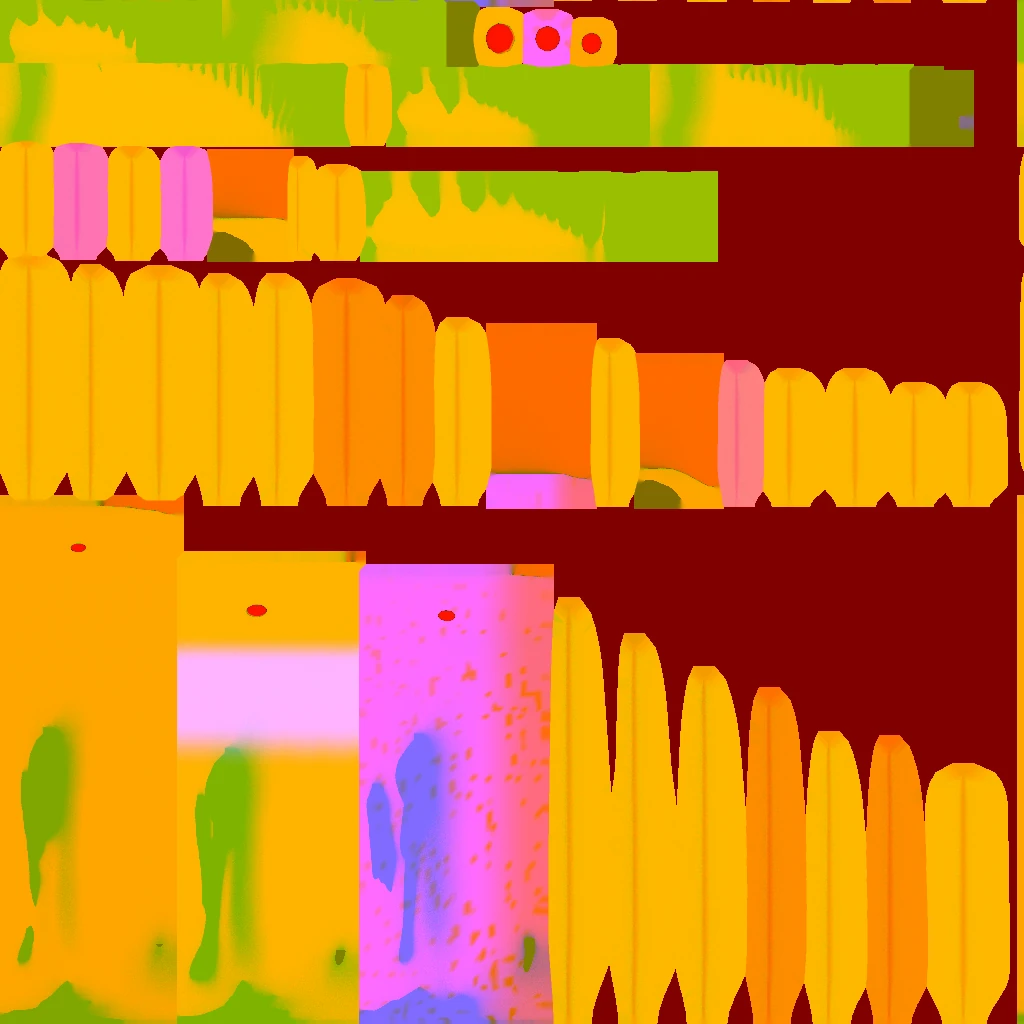
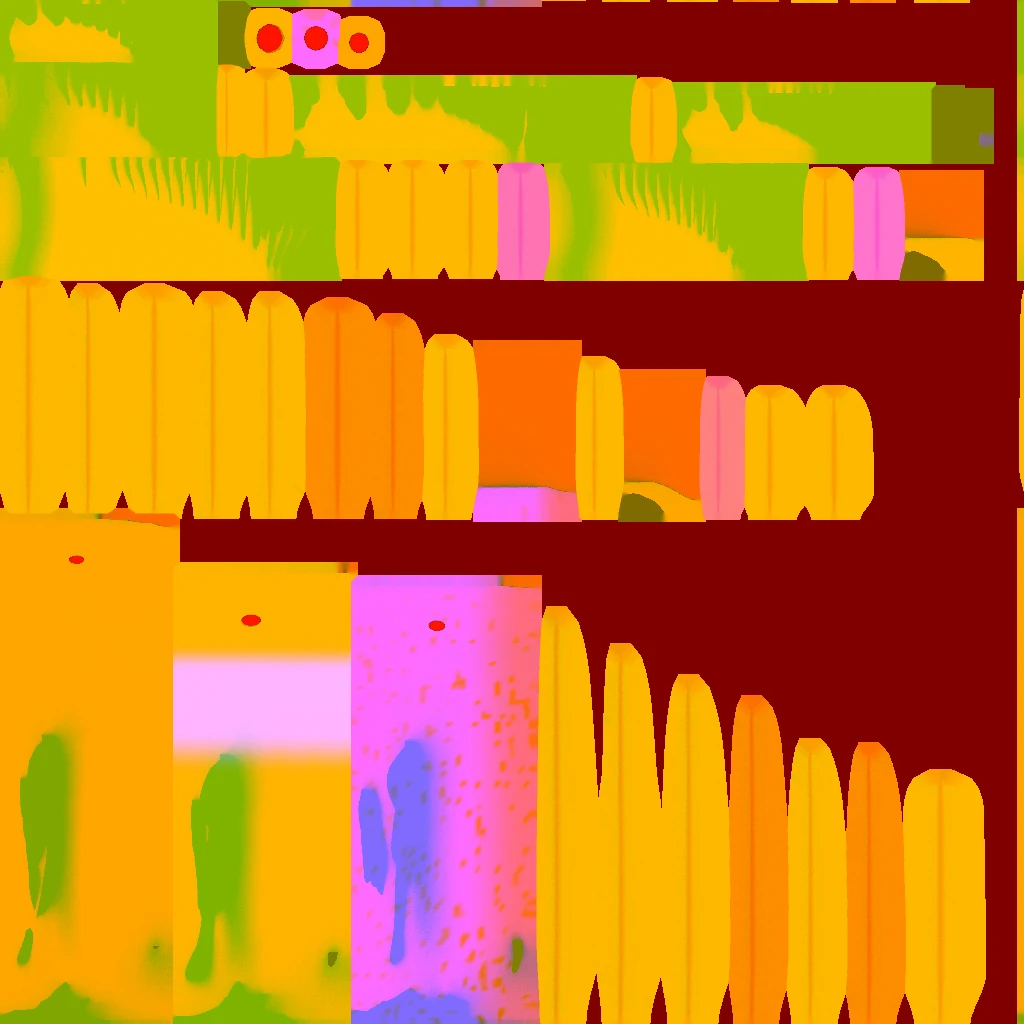
Birds: underwing coverts hide the remiges' roots, eyes on the head's surface, docs
Claude-Session: https://claude.ai/code/session_01VtuZ7TMCGf4jzJKFfdkQzU

diff --git a/blender/bld/birds.py b/blender/bld/birds.py
@@ -199,7 +199,7 @@ def closed_loft(P, cap_front=True, cap_back=True):
 def vane_width(u, w, notch=0.0, tip=0.78, base=0.10, taper=0.0):
     """half-width of one vane along the rachis (u 0 root .. 1 tip), as a fraction of the length"""
     u = np.asarray(u, float)
-    rise = (0.35 + 0.65 * ss(0.0, base * 2.2, u)) * (1 - taper * np.clip((u - 0.3) / 0.7, 0, 1) ** 1.3)
+    rise = (0.55 + 0.45 * ss(0.0, base * 2.2, u)) * (1 - taper * np.clip((u - 0.3) / 0.7, 0, 1) ** 1.3)
     t = np.clip((u - tip) / (1 - tip), 0, 1)
     cap = np.sqrt(np.clip(1 - t ** 2.2, 0, 1))
     cut = 1 - notch * ss(0.52, 0.66, u) * (1 - 0.3 * ss(0.85, 1.0, u))
@@ -693,7 +693,8 @@ def sheet_geo(sp, tier, side):
     le = np.array(sp['le'])
     tpar = np.linspace(0, 1, n_sp)
     k = np.linspace(0, 1, len(le))
-    chord = np.interp(tpar, k, sp['chord'])
+    # the underwing coverts reach further back than the upper ones: they hide the remiges' roots
+    chord = np.interp(tpar, k, sp['chord']) * (1.0 if side > 0 else 1.6)
     thick = np.interp(tpar, k, sp['thick'])
     cs = np.linspace(0, 1, n_ch + 1)
     rows = []

diff --git a/blender/make_birds.py b/blender/make_birds.py
@@ -95,7 +95,7 @@ def island_dims(sp, types, key, hi):
         return math.pi * sp['feet']['r'], sp['feet']['len']
     if key in ('sheet_top', 'sheet_bot'):
         le = np.array(sp['le'])
-        return float(np.linalg.norm(np.diff(le, axis=0), axis=1).sum()), max(sp['chord'])
+        return float(np.linalg.norm(np.diff(le, axis=0), axis=1).sum()), max(sp['chord']) * (1.6 if key == 'sheet_bot' else 1.0)
     if key in ('wing_top', 'wing_bot', 'tail_top', 'tail_bot'):
         bb = hi['lo_bbox'][key.split('_')[0]]
         return bb[2] - bb[0], bb[3] - bb[1]

diff --git a/blender/README.md b/blender/README.md
@@ -26,6 +26,7 @@ python blender/make_ship.py && npm run compress:models      # the lighthouse cha
                                                  # (--render DIR: Cycles previews, VIEWS=side,bridge,... picks them)
 python blender/make_it_office.py && npm run compress:models # the night IT office's 13 props in one GLB on one baked atlas (see "IT office props")
                                                  # (--render DIR: Cycles high-poly vs shipped comparisons; --debug DIR: the maps as PNGs)
+python blender/make_birds.py && npm run compress:models    # the window's pigeons, starlings and gull: feathered HIGH cards, LOW wing cards, two baked atlases (see "Birds")
 ```
 
 `python blender/make_buildings.py --set homes --only home-tudor --debug /tmp/maps`
@@ -433,3 +434,32 @@ edges on the sun side).
   `Rooftops.ts`.
 - Modules are exported at fixed scale (`SCALE` in `homes.py`) or normalised to a
   target size (`target` in `archetypes.py`); the lot maths depends on which.
+
+## Birds
+
+The birds outside the study window (`src/webgl/actors/Birds.ts`) are rock pigeons, starlings and a
+black-headed gull, modelled procedurally: `bld/birds.py` describes each species once (a lofted
+body and head from cross-sections, beak with cere, eye, tucked feet, the wing's leading-edge
+membrane and every feather: primaries with emarginations, secondaries and tertials, greater,
+median and primary coverts, alula, scapulars, rectrices and tail coverts, each with its vane
+outline, camber, shingle tilt and colour pattern), and `make_birds.py` builds it three times:
+
+| tier | what | triangles (pigeon / starling / gull) |
+| --- | --- | --- |
+| source (never ships) | dense vanes with a raised rachis, barbs and body feather tips in the bump, 110x72 body | 139k / 104k / 148k |
+| HIGH | the body at ~260 triangles, every feather an alpha-tested card (2-3 segments, a rachis column) sharing its type's atlas slot | 1,740 / 1,468 / 1,820 |
+| LOW (phones) | ~130-triangle body, each wing one top and one underside card, the tail the same | 268 each |
+
+Cycles bakes the HIGH atlas (1024: colour with the vanes' cut-out in alpha, ORM with the neck's
+iridescence mask in B, tangent normals) from the source's body in place and from a flat source
+feather per feather type onto its slot; the LOW atlas (512, colour and ORM) is the whole spread
+wing and fanned tail baked onto their cards. Every vertex carries `_rig` (part, thin, flex) and
+`_aux` (feather-root occlusion) for the runtime's shader rig.
+
+```sh
+python blender/make_birds.py [--render DIR] [--debug DIR]   # ~1.5 min (+5 min of renders)
+npm run compress:models
+```
+
+`--render DIR` writes the source next to both shipped tiers for each species from the side, above
+and below (`compare-*.png`); `--debug DIR` the maps as PNGs.

diff --git a/README.md b/README.md
@@ -140,6 +140,14 @@ The town read as a game for a handful of reasons, each one fixed where it lives:
 | Procedural toy props (icosphere shrubs, cone evergreens, ball canopies) | `blender/make_buildings.py` `YARD_PLANTS`: the tree generator at hedge scale (`hero_trees.PARAMS` shrub, shrub-red, arborvitae, ornamental), borrowing the town's leaf cards and bark so the atlas is unchanged (`--reuse-maps`); `Yards.loadModels` swaps them in on the lots the flight passes close by (about 0.5M triangles), the procedural plants staying elsewhere and until they load |
 | Miniature look from the lens | Background blur, chromatic aberration and lens flare cut back |
 
+## Birds at the window
+
+The flock that leaves the study window (t 0.055 to 0.3) is rock pigeons with a few starlings, and a black-headed gull in the squad that crosses the lens as the plane clears the window (`src/webgl/actors/Birds.ts`). They are modelled and baked in Blender (`blender/make_birds.py`, see `blender/README.md`, "Birds"; nothing external, see `public/models/birds/CREDITS.md`): a body with its eye, beak and tucked feet, and wings and tail of layered feathers (primaries, secondaries, coverts, alula, scapulars, rectrices) as alpha-tested cards on one baked atlas, lit by the scene's sun, sky and environment like everything else.
+
+- *Flight.* A shader rig: per bird the CPU writes elevation, fold, twist and load; the vertex shader turns each wing about its shoulder, elbow and wrist (weights blended across each joint, so the membrane and coverts stretch). The downstroke is extended and pronated with the primaries bending under the load, the upstroke flexes elbow and wrist. Birds glide now and then (pigeons in a raised V), bob with the stroke, point along their velocity and bank into turns (lift balances gravity plus the turn), fanning the tail. Pigeons beat at about 6 Hz, starlings 10, the gull 3.
+- *Shading.* The neck's green-purple sheen turns with the view (a mask in the ORM's B), feather undersides are paler, the low sun glows through thin feathers, and tucked feather roots carry their own occlusion.
+- *Cost.* Three instanced draws (one per species) on both tiers; 13 birds are about 22k triangles on HIGH and 3.5k on phones (the lean set: one card per wing surface). The update writes 13 matrices and 26 vec4s a frame. The paths and timing are the paper-plane birds' (the stream on absolute time, the squad keyed to t); `?probe` with `window.__birdTime` freezes their clock for inspection.
+
 ## Lived-in yards
 
 A neighbourhood where every lawn is clean reads as a model. `actors/YardClutter.ts` adds what households leave lying around, on the lots `Yards` already dresses:
